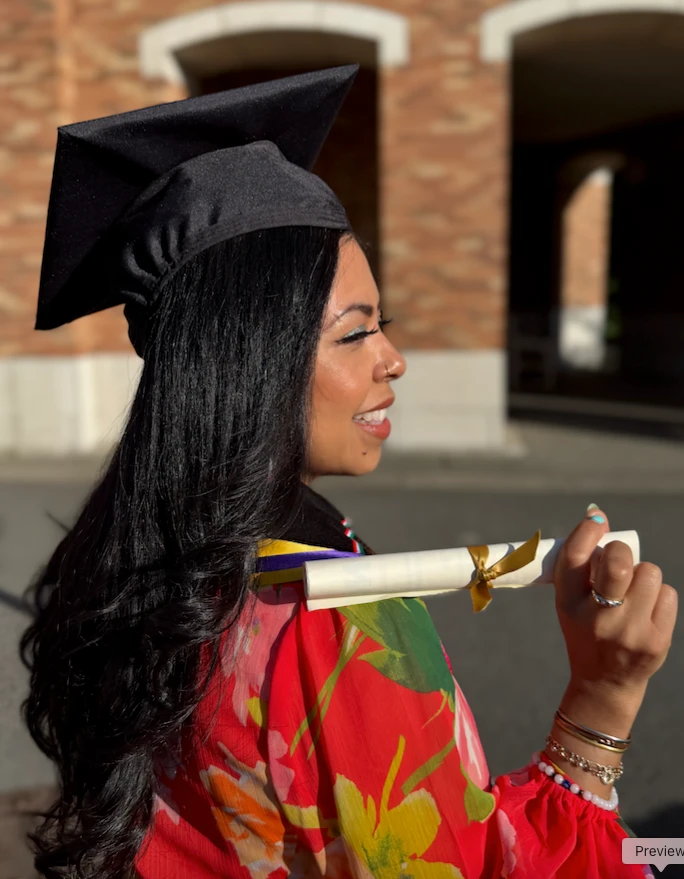
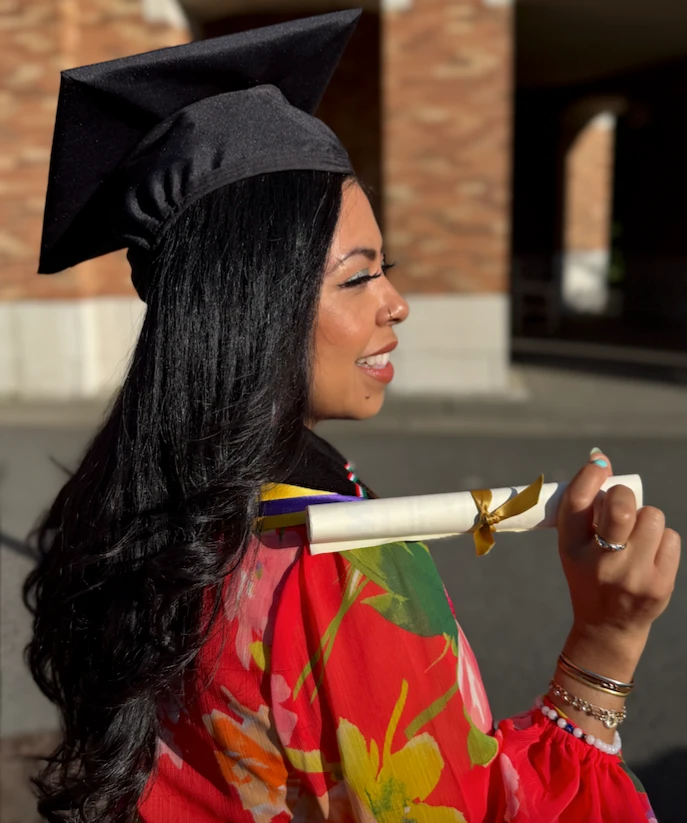
Make LinkedIn optional, update footer/About image, align project grid
* Crop Sprouted Organic Coffee homepage thumbnail to match siblings

Remove the letterbox/contain treatment so this thumbnail fills its
box edge-to-edge via object-cover, same as every other gallery item,
instead of showing a bordered/padded version. Same box size, just
full-bleed now.

Claude-Session: https://claude.ai/code/session_014ibk5VVMcFdSigqcFyZdx4

* Give Sprouted Organic Coffee thumbnail a box matching its own aspect ratio

The wide banner photo (2550x1060) didn't fit any of the standard
size/orientation buckets without either cropping content or
letterboxing with padding. Add a customDimensions override so this
one item's box matches the photo's own proportions exactly (same
width as its "large" siblings, shorter height), showing the full
image with zero crop and zero padding.

Claude-Session: https://claude.ai/code/session_014ibk5VVMcFdSigqcFyZdx4

* Vertically center Sprouted Organic Coffee thumbnail

Switch verticalOffset from top to center so this box's vertical
center lines up with its neighbor's, instead of sitting flush
against the top of the row.

Claude-Session: https://claude.ai/code/session_014ibk5VVMcFdSigqcFyZdx4

* Give Sprouted Organic Coffee portfolio card its own aspect ratio

Same fix as the homepage gallery: the shared 4/3 card frame forced
this wide banner photo into a letterboxed/padded box. Give it a
custom aspect ratio matching its own photo (2550/1060) instead, so
the full image shows with zero crop and zero padding.
[…]

diff --git a/src/pages/Index.tsx b/src/pages/Index.tsx
@@ -6,7 +6,6 @@ import { ProjectCard } from "@/components/shared/ProjectCard";
 import { SectionHeader } from "@/components/shared/SectionHeader";
 import { Button } from "@/components/ui/button";
 import { projects } from "@/data/projects";
-import { cn } from "@/lib/utils";
 
 import portraitMain from "@/assets/portrait-main.jpg";
 import bornXRaisedHero from "@/assets/gallery/gallery-1.jpg";
@@ -111,28 +110,19 @@ export default function Index() {
             />
           </ScrollReveal>
 
-          <div className="grid grid-cols-1 md:grid-cols-2 gap-x-8 md:gap-x-12 lg:gap-x-16">
-            {[0, 1].map((column) => (
-              <div key={column} className={cn("flex flex-col gap-y-16 md:gap-y-24", column === 1 && "md:mt-24")}>
-                {projects
-                  .filter((_, index) => index % 2 === column)
-                  .map((project) => {
-                    const index = projects.indexOf(project);
-                    return (
-                      <ScrollReveal key={project.slug} delay={index * 100}>
-                        <ProjectCard
-                          slug={project.slug}
-                          title={project.title}
-                          category={project.category}
-                          year={project.year}
-                          image={projectImages[project.slug]}
-                          objectFit="contain"
-                          customAspectRatio="4 / 3"
-                        />
-                      </ScrollReveal>
-                    );
-                  })}
-              </div>
+          <div className="grid grid-cols-1 md:grid-cols-2 gap-x-8 md:gap-x-12 lg:gap-x-16 gap-y-16 md:gap-y-20">
+            {projects.map((project, index) => (
+              <ScrollReveal key={project.slug} delay={index * 100}>
+                <ProjectCard
+                  slug={project.slug}
+                  title={project.title}
+                  category={project.category}
+                  year={project.year}
+                  image={projectImages[project.slug]}
+                  objectFit="contain"
+                  customAspectRatio="4 / 3"
+                />
+              </ScrollReveal>
             ))}
           </div>
         </div>

diff --git a/src/pages/Contact.tsx b/src/pages/Contact.tsx
@@ -10,7 +10,9 @@ const contactSchema = z.object({
   email: z.string().trim().email("Please enter a valid email").max(255),
   company: z.string().trim().min(1, "Company/Organization is required").max(150, "Company/Organization must be under 150 characters"),
   role: z.string().trim().min(1, "Role is required").max(150, "Role must be under 150 characters"),
-  linkedin: z.string().trim().min(1, "LinkedIn profile URL is required").url("Please enter a valid URL").max(255),
+  linkedin: z.string().trim().max(255).refine((val) => val === "" || z.string().url().safeParse(val).success, {
+    message: "Please enter a valid URL",
+  }),
   phone: z.string().trim().min(1, "Phone number is required").max(30, "Phone number must be under 30 characters"),
   message: z.string().trim().min(1, "Message is required").max(2000, "Message must be under 2000 characters"),
 });
@@ -161,9 +163,9 @@ our connection.</h1>
                   {/* LinkedIn */}
                   <div>
                     <label htmlFor="linkedin" className="eyebrow block mb-3">
-                      LinkedIn Profile URL <span className="text-ink-muted">*</span>
+                      LinkedIn Profile URL
                     </label>
-                    <input type="url" id="linkedin" name="linkedin" required maxLength={255} value={formData.linkedin} onChange={handleChange} className="input-editorial" placeholder="https://www.linkedin.com/in/yourname" />
+                    <input type="url" id="linkedin" name="linkedin" maxLength={255} value={formData.linkedin} onChange={handleChange} className="input-editorial" placeholder="https://www.linkedin.com/in/yourname" />
                   </div>
 
                   {/* Message */}

diff --git a/src/components/layout/Footer.tsx b/src/components/layout/Footer.tsx
@@ -7,7 +7,6 @@ const navLinks = [
 ];
 
 const socialLinks = [
-  { name: "Instagram", url: "https://www.instagram.com/mishored/" },
   { name: "LinkedIn", url: "https://www.linkedin.com/in/michelle-rojas/" },
 ];
 
@@ -27,7 +26,7 @@ export function Footer() {
               Michelle Rojas
             </Link>
             <p className="mt-4 text-sm text-ink-muted max-w-xs">
-              Digital marketer, designer, and brand strategist crafting distinctive identities with intention and discipline.
+              Digital marketer, designer, and brand strategist crafting distinctive identities with intention and creativity.
             </p>
           </div>
 

diff --git a/src/components/shared/ProjectCard.tsx b/src/components/shared/ProjectCard.tsx
@@ -35,7 +35,7 @@ export function ProjectCard({
       {/* Image Container */}
       <div
         className={cn(
-          "relative overflow-hidden bg-cream-darker mb-6",
+          "relative overflow-hidden mb-6",
           aspectRatio === "landscape" ? "aspect-[16/10]" : "aspect-[4/5]"
         )}
         style={customAspectRatio ? { aspectRatio: customAspectRatio } : undefined}
